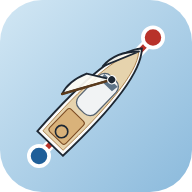
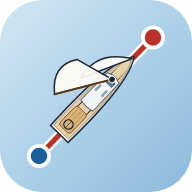
v178 : monocoque redessine, voiles plus grandes

Changed region(s): [[0.1875, 0.2188, 0.75, 0.8125]]

diff --git a/site/app.js b/site/app.js
@@ -1668,20 +1668,24 @@
       // Monocoque de croisière : coque à tableau, rouf, cockpit avec barre à roue, gréement en tête
       d.dataset.hw = '9'; d.dataset.sc = '11,1'; d.dataset.sy = '50';
       d.innerHTML = `<svg viewBox="${VB.x} ${VB.y} ${VB.w} ${VB.h}" aria-hidden="true">
-      <path d="M20 0 C28.5 9 30 34 28.6 64 L11.4 64 C10 34 11.5 9 20 0 Z" fill="#fbfbfa" stroke="#1d2733" stroke-width="0.9"/>
-      <path d="M20 2.2 C26.8 10 28 34 26.8 62 L13.2 62 C12 34 13.2 10 20 2.2 Z" fill="#e6d3ad" stroke="#a7783f" stroke-width="0.4"/>
-      <rect x="14.2" y="20" width="11.6" height="22" rx="4" fill="#f1f3f4" stroke="#556270" stroke-width="0.6"/>
-      <path d="M15.5 21.5 L24.5 21.5 L24 25 L16 25 Z" fill="#5d7387"/>
-      <rect x="14.5" y="45" width="11" height="15" rx="1.5" fill="#d9b27a" stroke="#7a4a22" stroke-width="0.5"/>
-      <circle cx="20" cy="56" r="3" fill="none" stroke="#1d2733" stroke-width="0.8"/>
+      <path d="M20 -1 C26.6 8 28.6 30 27.4 64 L12.6 64 C11.4 30 13.4 8 20 -1 Z" fill="#fbfbfa" stroke="#1d2733" stroke-width="0.9"/>
+      <path d="M20 1.4 C25.4 9 27 30 26 62.4 L14 62.4 C13 30 14.6 9 20 1.4 Z" fill="#e6d3ad" stroke="#a7783f" stroke-width="0.4"/>
+      <g stroke="#c9ab78" stroke-width="0.35"><path d="M17.6 8 C16.2 24 15.8 44 16 62"/><path d="M22.4 8 C23.8 24 24.2 44 24 62"/></g>
+      <path d="M20 -0.2 C25.8 8.4 27.6 30 26.6 63.2" stroke="#8a97a3" stroke-width="0.4" fill="none"/><path d="M20 -0.2 C14.2 8.4 12.4 30 13.4 63.2" stroke="#8a97a3" stroke-width="0.4" fill="none"/>
+      <path d="M15.2 17 Q20 14.2 24.8 17 L25 40 Q20 41.4 15 40 Z" fill="#f1f3f4" stroke="#556270" stroke-width="0.6"/>
+      <path d="M16.4 18.6 Q20 16.8 23.6 18.6 L23.4 22 L16.6 22 Z" fill="#5d7387"/>
+      <rect x="16.6" y="25" width="1.6" height="5" rx="0.6" fill="#8fa3b5"/><rect x="21.8" y="25" width="1.6" height="5" rx="0.6" fill="#8fa3b5"/>
+      <rect x="15.4" y="44" width="9.2" height="16" rx="2" fill="#d9b27a" stroke="#7a4a22" stroke-width="0.5"/>
+      <g stroke="#a7783f" stroke-width="0.35"><line x1="17.6" y1="45" x2="17.6" y2="59"/><line x1="20" y1="45" x2="20" y2="51.6"/><line x1="22.4" y1="45" x2="22.4" y2="59"/></g>
+      <circle cx="20" cy="56" r="2.8" fill="none" stroke="#1d2733" stroke-width="0.8"/><line x1="20" y1="53.2" x2="20" y2="58.8" stroke="#1d2733" stroke-width="0.4"/>
       <g class="spi" display="none"><g class="spi-rot">
         <path d="M9 1 Q10.5 -17 20 -21 Q29.5 -17 31 1 Q20 -7 9 1 Z" fill="#d8452f" stroke="#1d2733" stroke-width="0.9" stroke-linejoin="round"/>
         <path d="M14.5 -3.4 Q15.8 -16 20 -18 Q24.2 -16 25.5 -3.4 Q20 -6 14.5 -3.4 Z" fill="#fffdf5"/>
         <path d="M18.2 -4.8 Q18.7 -14 20 -15 Q21.3 -14 21.8 -4.8 Q20 -5.4 18.2 -4.8 Z" fill="#1f5f99"/>
       </g><path class="spi-sheet" d="" stroke="#1d2733" stroke-width="0.5" fill="none"/></g>
-      ${sail('sail-j', 20, 2, 19, 'jib')}
-      ${sail('sail-m', 20, 21, 25, 'main')}
-      ${mast(21)}
+      ${sail('sail-j', 20, 0.5, 33, 'genoa')}
+      ${sail('sail-m', 20, 18, 36, 'mainx')}
+      ${mast(18)}
     </svg>`;
       return d;
     }
@@ -1744,19 +1748,20 @@
     elB.querySelectorAll('.sail').forEach(g => {
       const mx = +g.dataset.x, my = +g.dataset.y, L = +g.dataset.l, k = g.dataset.k;
       const cloth = g.querySelector('.sail-cloth'), spar = g.querySelector('.sail-spar');
-      if (k === 'jib') {
+      if (k === 'jib' || k === 'genoa') {
         if (mot || spi) { cloth.setAttribute('d', ''); spar.setAttribute('d', ''); return; }
-        const a = Math.min(60, base * 0.8);
-        const c = pt(mx, my, L, a), m = pt(mx, my, L * 0.6, a + 22);
+        const a = Math.min(60, base * 0.8), gn = k === 'genoa';
+        const c = pt(mx, my, L, a), m = pt(mx, my, L * (gn ? 0.68 : 0.6), a + (gn ? 34 : 22));
         cloth.setAttribute('d', `M${mx} ${my} Q${m[0].toFixed(1)} ${m[1].toFixed(1)} ${c[0].toFixed(1)} ${c[1].toFixed(1)} Z`);
         spar.setAttribute('d', '');
         return;
       }
       const b = pt(mx, my, L, base);                      // bout de bôme
       if (mot) { cloth.setAttribute('d', ''); spar.setAttribute('d', `M${mx} ${my} L${b[0].toFixed(1)} ${b[1].toFixed(1)}`); return; }
-      if (k === 'main') { // grand-voile triangulaire : seule la bôme, la chute arrondie revient en tête de mât
-        const hd = pt(mx, my, L * 0.5, Math.min(115, base + 30)); // haut de la voile, plus ouvert (vrillage)
-        const bm = pt(mx, my, L * 0.85, base + 14);
+      if (k === 'main' || k === 'mainx') { // grand-voile triangulaire : seule la bôme, la chute arrondie revient en tête de mât
+        const mxl = k === 'mainx';
+        const hd = pt(mx, my, L * (mxl ? 0.68 : 0.5), Math.min(115, base + (mxl ? 44 : 30))); // haut de la voile, plus ouvert (vrillage)
+        const bm = pt(mx, my, L * (mxl ? 1.05 : 0.85), base + (mxl ? 28 : 14));
         cloth.setAttribute('d', `M${mx} ${my} L${b[0].toFixed(1)} ${b[1].toFixed(1)} Q${bm[0].toFixed(1)} ${bm[1].toFixed(1)} ${hd[0].toFixed(1)} ${hd[1].toFixed(1)} Z`);
         spar.setAttribute('d', `M${mx} ${my} L${b[0].toFixed(1)} ${b[1].toFixed(1)}`);
         return;
@@ -3628,7 +3633,7 @@
   // Icône du logiciel : onglet du navigateur tout de suite ; appli Android au prochain démarrage
   function appIcon() {
     const k = ['c', 'm'].includes(OPT.ico) ? OPT.ico : 't';
-    const l = document.querySelector('link[rel="icon"]'); if (l) l.href = `ico/${k}-64.png?v=177`;
+    const l = document.querySelector('link[rel="icon"]'); if (l) l.href = `ico/${k}-64.png?v=178`;
     try { const P = window.Capacitor && window.Capacitor.Plugins && window.Capacitor.Plugins.AppIcon; if (P) Promise.resolve(P.set({ kind: k })).catch(() => {}); else if (window.Capacitor && window.Capacitor.nativePromise) window.Capacitor.nativePromise('AppIcon', 'set', { kind: k }).catch(() => {}); } catch (e) {}
   }
   { const ib = el('o-ico').querySelector(`button[data-v="${OPT.ico || 't'}"]`); if (ib) { el('ico-cur-pv').innerHTML = ib.querySelector('.ico-pv').innerHTML; el('ico-cur-txt').textContent = ib.textContent; } }

diff --git a/site/index.html b/site/index.html
@@ -7,10 +7,10 @@
 <link rel="preconnect" href="https://api.fontshare.com">
 <link href="https://api.fontshare.com/v2/css?f[]=general-sans@400,500,600&display=swap" rel="stylesheet">
 <link href="https://unpkg.com/maplibre-gl@5.24.0/dist/maplibre-gl.css" rel="stylesheet">
-<link href="style.css?v=177" rel="stylesheet">
-<link rel="icon" href="icon-192.png?v=177">
+<link href="style.css?v=178" rel="stylesheet">
+<link rel="icon" href="icon-192.png?v=178">
 <link rel="manifest" href="manifest.webmanifest">
-<link rel="apple-touch-icon" href="apple-touch-icon.png?v=177">
+<link rel="apple-touch-icon" href="apple-touch-icon.png?v=178">
 <meta name="theme-color" content="#1f5f8b">
 <meta name="mobile-web-app-capable" content="yes">
 </head>
@@ -358,8 +358,8 @@
 </aside>
 
 <script src="https://unpkg.com/maplibre-gl@5.24.0/dist/maplibre-gl.js"></script>
-<script src="polar.js?v=177"></script>
-<script src="reefs.js?v=177"></script>
+<script src="polar.js?v=178"></script>
+<script src="reefs.js?v=178"></script>
 <div class="tr-back" id="tr-back" hidden>
  <div class="tr-sheet" role="dialog" aria-modal="true" aria-labelledby="tr-title">
   <div class="tr-head"><h2 id="tr-title">Traces</h2><button type="button" class="btn tr-x" id="tr-close" aria-label="Fermer">Fermer</button></div>
@@ -373,6 +373,6 @@
   <p class="tr-note">5 traces au maximum, gardées sur cet appareil.</p>
  </div>
 </div>
-<script src="app.js?v=177"></script>
+<script src="app.js?v=178"></script>
 </body>
 </html>
